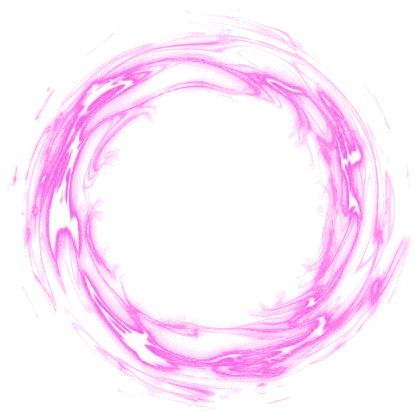
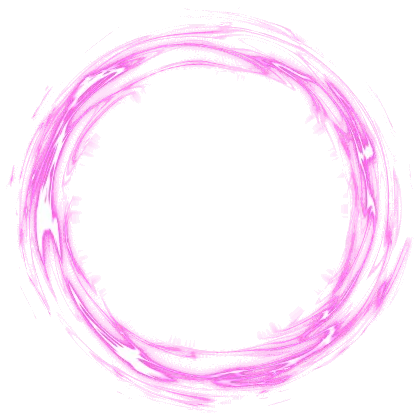
Add files via upload

Changed region(s): [[0.0, 0.031, 0.9905, 0.9905]]

diff --git a/magna-html/cos.css b/magna-html/cos.css
@@ -395,49 +395,64 @@ body:not(.adm-body) .tav[data-pid]{cursor:pointer}
 .fr-ouroboros>.fxm .gem{display:none}
 
 /* ===================== MARCO MAGENTA (exclusivo del sorteo) — energía contenida que quiere liberarse =====================
-   Ciclo: gira → se comprime y tiembla (carga) → ESTALLA (onda expansiva, chispas, destello) → vuelve. Las ondas invaden sutilmente el avatar.
-   Nv.1 Chispa: un remolino tenue, ondas muy suaves, sin estallidos · Nv.2 Corriente: dos remolinos opuestos, rayos eléctricos, estalla cada 5 s
-   Nv.3 Singularidad: tres remolinos, rayos constantes, estalla cada 3,2 s con más fuerza, núcleo blanco y color que vibra */
-.fr-magenta{animation:none!important;box-shadow:0 0 .3em rgba(255,60,220,.45)}
-.fr-magenta:after{inset:-30%!important;background:url("fx/magenta-1.webp") center/100% 100% no-repeat!important;filter:drop-shadow(0 0 4px rgba(255,60,220,.7))!important;animation:frSpin 16s linear infinite!important;z-index:3!important}
-.fr-magenta:before{inset:-30%!important;background:url("fx/magenta-2.webp") center/100% 100% no-repeat!important;filter:none;opacity:0!important;mix-blend-mode:screen;animation:frSpin 22s linear infinite reverse!important;z-index:2!important;-webkit-mask:none!important;mask:none!important}
-.fr-magenta>.fxm{inset:-30%!important;z-index:4!important;--m1:#ff4fd8;--m2:#b24bff;--m3:#fff}
+   Todo dentro de la caja del marco (1,4× el avatar). Una OLA de energía se persigue alrededor del aro y acelera mientras carga;
+   al llenarse ESTALLA (destello, onda y chispas contenidas) y vuelve a empezar. Las ondas invaden sutilmente el avatar.
+   Nv.1 Chispa: un remolino tenue y una ola lenta · Nv.2 Corriente: dos remolinos, dos olas que se persiguen, rayos, estalla cada 5 s
+   Nv.3 Singularidad: tres remolinos, tres olas, rayos constantes, estalla cada 3,2 s con máxima intensidad */
+.fr-magenta{animation:none!important;box-shadow:0 0 .25em rgba(255,60,220,.45)}
+.fr-magenta:after{inset:-20%!important;background:url("fx/magenta-1.webp") center/100% 100% no-repeat!important;filter:drop-shadow(0 0 3px rgba(255,60,220,.7))!important;animation:frSpin 16s linear infinite!important;z-index:3!important}
+.fr-magenta:before{inset:-20%!important;background:url("fx/magenta-2.webp") center/100% 100% no-repeat!important;filter:none;opacity:0!important;mix-blend-mode:screen;animation:frSpin 22s linear infinite reverse!important;z-index:2!important;-webkit-mask:none!important;mask:none!important}
+.fr-magenta>.fxm{inset:-20%!important;z-index:4!important;--m1:#ff4fd8;--m2:#b24bff;--m3:#fff}
 .fr-magenta>.fxm>i{display:none}
 /* ondas que invaden el avatar (la cara del centro queda despejada) */
-.fr-magenta>.fxm .o1{display:block!important;inset:0;border-radius:50%;background:url("fx/magenta-in.webp") center/100% 100% no-repeat;-webkit-mask:radial-gradient(closest-side,transparent 30%,#000 50%,#000 60%,transparent 66%);mask:radial-gradient(closest-side,transparent 30%,#000 50%,#000 60%,transparent 66%);mix-blend-mode:screen;opacity:.22;animation:frSpin 30s linear infinite reverse;z-index:0}
+.fr-magenta>.fxm .o1{display:block!important;inset:0;border-radius:50%;background:url("fx/magenta-in.webp") center/100% 100% no-repeat;-webkit-mask:radial-gradient(closest-side,transparent 36%,#000 56%,#000 68%,transparent 73%);mask:radial-gradient(closest-side,transparent 36%,#000 56%,#000 68%,transparent 73%);mix-blend-mode:screen;opacity:.24;animation:frSpin 30s linear infinite reverse;z-index:0}
 .fr-magenta>.fxm .o1:before,.fr-magenta>.fxm .o1:after{display:none}
-/* Nv.1 */
-.fr-magenta[data-lv="1"]:after{filter:saturate(.55) brightness(.72)!important;opacity:.8;animation-duration:28s!important}
+/* la OLA que se persigue: cabeza blanca brillante y cola magenta, recorriendo el aro */
+.fr-magenta>.fxm .o3{display:block!important;inset:0;border-radius:50%;background:conic-gradient(from 0deg,transparent 0 62%,rgba(178,75,255,.25) 72%,rgba(255,79,216,.85) 92%,#fff 96.7%,rgba(255,214,247,.55) 97.7%,transparent 99.3%);-webkit-mask:radial-gradient(closest-side,transparent 70%,#000 78%,#000 88%,transparent 96%);mask:radial-gradient(closest-side,transparent 70%,#000 78%,#000 88%,transparent 96%);mix-blend-mode:screen;filter:blur(.6px) drop-shadow(0 0 4px #ff4fd8);animation:frSpin 3.6s linear infinite;z-index:5}
+.fr-magenta>.fxm .o3:before,.fr-magenta>.fxm .o3:after{display:none}
+.fr-magenta[data-lv="1"]>.fxm .o3{opacity:.55}
+.fr-magenta[data-lv="1"]:after{filter:saturate(.55) brightness(.72)!important;opacity:.85;animation-duration:28s!important}
 .fr-magenta[data-lv="1"]{box-shadow:0 0 .15em rgba(255,60,220,.3)}
-/* Nv.2 y Nv.3: segundo remolino, rayos, carga y estallido */
+/* Nv.2 */
 .fr-magenta:not([data-lv="1"]):before{opacity:.9!important}
-.fr-magenta:not([data-lv="1"]):after{filter:brightness(1.12) drop-shadow(0 0 5px rgba(255,60,220,.85))!important;animation:frSpin 14s linear infinite,fxSurge 5s ease-in-out infinite!important}
+.fr-magenta:not([data-lv="1"]):after{filter:brightness(1.12) drop-shadow(0 0 4px rgba(255,60,220,.85))!important;animation:frSpin 14s linear infinite,fxSurge 5s ease-in-out infinite!important}
 .fr-magenta:not([data-lv="1"]):before{animation:frSpin 20s linear infinite reverse,fxSurge 5s ease-in-out infinite!important}
 .fr-magenta:not([data-lv="1"]){animation:fxMgB 5s ease-in-out infinite!important}
-.fr-magenta:not([data-lv="1"])>.fxm .o1{opacity:.32;animation:frSpin 26s linear infinite reverse,fxInv 5s ease-in-out infinite}
-.fr-magenta:not([data-lv="1"])>.fxm .o2{display:block;inset:0;border-radius:0;animation:fxArc 5s steps(1) infinite;background:url("fx/magenta-rayos.svg") center/100% 100% no-repeat;filter:drop-shadow(0 0 2px #ff4fd8);z-index:5}
+.fr-magenta:not([data-lv="1"])>.fxm .o3{background:conic-gradient(from 0deg,transparent 0 12%,rgba(255,79,216,.85) 42%,#fff 46.7%,rgba(255,214,247,.55) 47.7%,transparent 49.3% 62%,rgba(255,79,216,.85) 92%,#fff 96.7%,rgba(255,214,247,.55) 97.7%,transparent 99.3%);animation:fxChase 5s cubic-bezier(.55,0,.25,1) infinite}
+.fr-magenta:not([data-lv="1"])>.fxm .o1{opacity:.34;animation:frSpin 26s linear infinite reverse,fxInv 5s ease-in-out infinite}
+.fr-magenta:not([data-lv="1"])>.fxm .o2{display:block;inset:0;border-radius:0;animation:fxArc 5s steps(1) infinite;background:url("fx/magenta-rayos.svg") center/100% 100% no-repeat;filter:drop-shadow(0 0 2px #ff4fd8);z-index:6}
 .fr-magenta>.fxm .o2:before,.fr-magenta>.fxm .o2:after{display:none}
-.fr-magenta:not([data-lv="1"])>.fxm .b2{display:block;inset:16%;border-radius:50%;border:3px solid #ffd6f7;box-shadow:0 0 12px #ff4fd8,inset 0 0 12px #ff4fd8;background:none;-webkit-mask:none;mask:none;opacity:0;animation:fxShock 5s ease-out infinite;z-index:6}
-.fr-magenta:not([data-lv="1"])>.fxm .bu{display:block;inset:4%;border:0;border-radius:50%;opacity:0;background:repeating-conic-gradient(from 7deg,#fff 0 1.2deg,transparent 1.2deg 14deg),repeating-conic-gradient(#ff4fd8 0 2deg,transparent 2deg 19deg);-webkit-mask:radial-gradient(closest-side,transparent 78%,#000 82%,#000 88%,transparent 92%);mask:radial-gradient(closest-side,transparent 78%,#000 82%,#000 88%,transparent 92%);animation:fxSpark 5s ease-out infinite;z-index:6}
-.fr-magenta:not([data-lv="1"])>.fxm .sx{display:block;inset:6%;border-radius:50%;background:radial-gradient(closest-side,transparent 48%,rgba(255,214,247,.95) 62%,rgba(255,79,216,.6) 74%,transparent 90%);mix-blend-mode:screen;opacity:0;animation:fxFlash 5s ease-out infinite;z-index:7}
-/* Nv.3: más rápido y más fuerte */
-.fr-magenta[data-lv="3"]:after{filter:brightness(1.35) saturate(1.2) drop-shadow(0 0 2px #fff) drop-shadow(0 0 8px rgba(255,60,220,.95))!important;animation:frSpin 9s linear infinite,fxSurge3 3.2s ease-in-out infinite!important}
+.fr-magenta:not([data-lv="1"])>.fxm .b2{display:block;inset:13%;border-radius:50%;border:3px solid #fff;box-shadow:0 0 10px #ff4fd8,inset 0 0 10px #ff4fd8;background:none;-webkit-mask:none;mask:none;opacity:0;animation:fxShock 5s ease-out infinite;z-index:7}
+.fr-magenta:not([data-lv="1"])>.fxm .bu{display:block;inset:1%;border:0;border-radius:50%;opacity:0;background:repeating-conic-gradient(from 7deg,#fff 0 1.4deg,transparent 1.4deg 12deg),repeating-conic-gradient(#ff4fd8 0 2.4deg,transparent 2.4deg 17deg);-webkit-mask:radial-gradient(closest-side,transparent 74%,#000 80%,#000 90%,transparent 96%);mask:radial-gradient(closest-side,transparent 74%,#000 80%,#000 90%,transparent 96%);animation:fxSpark 5s ease-out infinite;z-index:7}
+.fr-magenta:not([data-lv="1"])>.fxm .sx{display:block;inset:0;border-radius:50%;background:radial-gradient(closest-side,rgba(255,255,255,.55) 0,rgba(255,214,247,.9) 70%,rgba(255,79,216,.8) 84%,transparent 100%);mix-blend-mode:screen;opacity:0;animation:fxFlash 5s ease-out infinite;z-index:8}
+/* Nv.3: tres olas, más rápido y más violento */
+.fr-magenta[data-lv="3"]:after{filter:brightness(1.35) saturate(1.2) drop-shadow(0 0 2px #fff) drop-shadow(0 0 6px rgba(255,60,220,.95))!important;animation:frSpin 9s linear infinite,fxSurge3 3.2s ease-in-out infinite!important}
 .fr-magenta[data-lv="3"]:before{animation:frSpin 13s linear infinite reverse,fxSurge3 3.2s ease-in-out infinite!important}
 .fr-magenta[data-lv="3"]{animation:fxMgB3 3.2s ease-in-out infinite!important}
-.fr-magenta[data-lv="3"]>.fxm .o1{opacity:.42;animation:frSpin 18s linear infinite reverse,fxInv 3.2s ease-in-out infinite}
+.fr-magenta[data-lv="3"]>.fxm .o3{background:conic-gradient(from 0deg,transparent 0 8%,rgba(255,79,216,.9) 28%,#fff 31.5%,rgba(255,214,247,.55) 32.5%,transparent 34.1% 41%,rgba(255,79,216,.9) 61%,#fff 64.8%,rgba(255,214,247,.55) 65.8%,transparent 67.4% 74%,rgba(255,79,216,.9) 94%,#fff 98.0%,rgba(255,214,247,.55) 99.0%,transparent 100.6%);animation:fxChase3 3.2s cubic-bezier(.55,0,.25,1) infinite}
+.fr-magenta[data-lv="3"]>.fxm .o1{opacity:.44;animation:frSpin 18s linear infinite reverse,fxInv 3.2s ease-in-out infinite}
 .fr-magenta[data-lv="3"]>.fxm .o2{animation:none;opacity:1}
 .fr-magenta[data-lv="3"]>.fxm .b2,.fr-magenta[data-lv="3"]>.fxm .bu,.fr-magenta[data-lv="3"]>.fxm .sx{animation-duration:3.2s}
-.fr-magenta[data-lv="3"]>.fxm .au{display:block;inset:0!important;opacity:.95;background:url("fx/magenta-3.webp") center/100% 100% no-repeat!important;mix-blend-mode:screen;animation:frSpin 7s linear infinite,fxMgH 3.2s ease-in-out infinite!important;z-index:1}
-.fr-magenta[data-lv="3"]>.fxm .o3{display:block}
-@keyframes fxSurge{0%,50%{scale:1;translate:0 0}62%{scale:.95}66%{translate:.7% -.5%}68%{translate:-.7% .5%}70%{translate:.6% .6%}72%{translate:-.6% -.5%}74%{translate:.5% -.6%}76%{translate:0 0;scale:.93}80%{scale:1.12}88%{scale:1.02}100%{scale:1;translate:0 0}}
-@keyframes fxSurge3{0%,40%{scale:1;translate:0 0}55%{scale:.94}60%{translate:1% -.7%}62%{translate:-1% .8%}64%{translate:.9% .9%}66%{translate:-.9% -.7%}68%{translate:.8% -.9%}72%{translate:0 0;scale:.91}77%{scale:1.16}86%{scale:1.03}100%{scale:1;translate:0 0}}
-@keyframes fxShock{0%,77%{opacity:0;transform:scale(.85)}80%{opacity:1;transform:scale(.95)}100%{opacity:0;transform:scale(1.32)}}
-@keyframes fxSpark{0%,78%{opacity:0;transform:scale(.8) rotate(0)}81%{opacity:1}100%{opacity:0;transform:scale(1.28) rotate(25deg)}}
-@keyframes fxFlash{0%,77%{opacity:0}80%{opacity:1}92%,100%{opacity:0}}
-@keyframes fxInv{0%,50%{filter:none}74%{filter:brightness(1.8) saturate(1.3)}80%{filter:brightness(.7)}100%{filter:none}}
-@keyframes fxArc{0%,55%{opacity:.35}56%,79%{opacity:1}80%,100%{opacity:.35}}
-@keyframes fxMgB{0%,55%{box-shadow:0 0 .3em rgba(255,60,220,.5)}76%{box-shadow:0 0 .5em rgba(255,214,247,.8),0 0 1em rgba(255,60,220,.9)}80%{box-shadow:0 0 .9em #fff,0 0 2em rgba(255,60,220,1)}100%{box-shadow:0 0 .3em rgba(255,60,220,.5)}}
-@keyframes fxMgB3{0%,45%{box-shadow:0 0 .4em rgba(255,255,255,.6),0 0 .9em rgba(255,60,220,.8)}72%{box-shadow:0 0 .6em #fff,0 0 1.4em rgba(255,60,220,1)}77%{box-shadow:0 0 1.1em #fff,0 0 2.6em rgba(255,60,220,1),0 0 3.4em rgba(178,75,255,.7)}100%{box-shadow:0 0 .4em rgba(255,255,255,.6),0 0 .9em rgba(255,60,220,.8)}}
+.fr-magenta[data-lv="3"]>.fxm .au{display:block;inset:0!important;opacity:.9;background:url("fx/magenta-3.webp") center/100% 100% no-repeat!important;mix-blend-mode:screen;animation:frSpin 7s linear infinite,fxMgH 3.2s ease-in-out infinite!important;z-index:1}
+/* la ola acelera mientras carga y da el último giro en el estallido */
+@keyframes fxChase{0%{transform:rotate(0)}50%{transform:rotate(380deg)}78%{transform:rotate(1150deg)}82%{transform:rotate(1310deg)}100%{transform:rotate(1440deg)}}
+@keyframes fxChase3{0%{transform:rotate(0)}40%{transform:rotate(340deg)}75%{transform:rotate(1240deg)}79%{transform:rotate(1400deg)}100%{transform:rotate(1800deg)}}
+/* impulso: se comprime, tiembla fuerte y revienta (sin salirse de la caja) */
+@keyframes fxSurge{0%,50%{scale:1;translate:0 0}60%{scale:.95}63%{translate:1.2% -1%}65%{translate:-1.3% .9%}67%{translate:1.1% 1.2%}69%{translate:-1.2% -1%}71%{translate:1.3% -.8%}73%{translate:-1% 1.2%}75%{translate:.9% -1.1%}77%{translate:0 0;scale:.9}80%{scale:1.06}86%{scale:.99}100%{scale:1;translate:0 0}}
+@keyframes fxSurge3{0%,40%{scale:1;translate:0 0}52%{scale:.94}56%{translate:1.6% -1.2%}58%{translate:-1.7% 1.3%}60%{translate:1.5% 1.6%}62%{translate:-1.6% -1.4%}64%{translate:1.7% -1.1%}66%{translate:-1.4% 1.6%}68%{translate:1.3% -1.5%}70%{translate:-1.5% 1%}73%{translate:0 0;scale:.88}77%{scale:1.08}84%{scale:.98}100%{scale:1;translate:0 0}}
+@keyframes fxShock{0%,77%{opacity:0;transform:scale(.9)}79%{opacity:1;transform:scale(.95)}100%{opacity:0;transform:scale(1.18)}}
+@keyframes fxSpark{0%,77%{opacity:0;transform:scale(.88) rotate(0)}80%{opacity:1}100%{opacity:0;transform:scale(1.05) rotate(30deg)}}
+@keyframes fxFlash{0%,76%{opacity:0}79%{opacity:.95}84%{opacity:.25}88%{opacity:.6}96%,100%{opacity:0}}
+@keyframes fxInv{0%,50%{filter:none}75%{filter:brightness(2) saturate(1.4)}80%{filter:brightness(.6)}100%{filter:none}}
+@keyframes fxArc{0%,52%{opacity:.35}53%,79%{opacity:1}80%,100%{opacity:.35}}
+@keyframes fxMgB{0%,55%{box-shadow:0 0 .25em rgba(255,60,220,.5)}76%{box-shadow:0 0 .4em rgba(255,214,247,.9),0 0 .8em rgba(255,60,220,.9)}80%{box-shadow:0 0 .6em #fff,0 0 1.2em rgba(255,60,220,1)}100%{box-shadow:0 0 .25em rgba(255,60,220,.5)}}
+@keyframes fxMgB3{0%,45%{box-shadow:0 0 .3em rgba(255,255,255,.6),0 0 .7em rgba(255,60,220,.8)}72%{box-shadow:0 0 .5em #fff,0 0 1em rgba(255,60,220,1)}77%{box-shadow:0 0 .8em #fff,0 0 1.5em rgba(255,60,220,1),0 0 2em rgba(178,75,255,.7)}100%{box-shadow:0 0 .3em rgba(255,255,255,.6),0 0 .7em rgba(255,60,220,.8)}}
 @keyframes fxMgH{0%,100%{filter:hue-rotate(0)}50%{filter:hue-rotate(-45deg) brightness(1.2)}}
-.fr-magenta>.fxm .gem{display:none!important}
+.fr-magenta:not([data-lv="3"])>.fxm .gem{display:none!important}
+/* Nv.3 · HORIZONTE DE SUCESOS: la singularidad se traga el avatar (gira en espiral hacia el vacío) y renace en el estallido */
+.fr-magenta[data-lv="3"]>.fxm{background-image:inherit;background-size:0 0;background-repeat:no-repeat}
+.fr-magenta[data-lv="3"]>.fxm .gem{display:block!important;inset:14.3%!important;width:auto!important;height:auto!important;margin:0!important;border-radius:50%!important;clip-path:none!important;filter:none;background-color:#0b0012!important;background-image:inherit!important;background-size:100% 100%;background-position:center!important;background-repeat:no-repeat!important;box-shadow:inset 0 0 10px rgba(255,79,216,.9),inset 0 0 22px rgba(11,0,18,.95);opacity:0;animation:fxSing 3.2s cubic-bezier(.5,0,.3,1) infinite!important;z-index:3}
+.fr-magenta[data-lv="3"]>.fxm .gem:after{display:block!important;content:"";position:absolute;inset:0;border-radius:50%;transform:none!important;background:radial-gradient(closest-side,#000 0 18%,rgba(255,79,216,.95) 24%,rgba(178,75,255,.5) 34%,transparent 48%);opacity:0;animation:fxHole 3.2s ease-in infinite}
+@keyframes fxSing{0%,46%{opacity:0;transform:rotate(0);background-size:100% 100%;filter:none}50%{opacity:1;transform:rotate(0);background-size:100% 100%}73%{opacity:1;transform:rotate(600deg);background-size:10% 10%;filter:blur(.6px) brightness(1.7) hue-rotate(-40deg)}76%{opacity:1;transform:rotate(700deg);background-size:0% 0%}77%{opacity:1;transform:rotate(720deg);background-size:135% 135%;filter:brightness(2.4)}86%{opacity:1;background-size:100% 100%;filter:none}92%,100%{opacity:0;transform:rotate(720deg);background-size:100% 100%}}
+@keyframes fxHole{0%,50%{opacity:0;transform:scale(.2)}74%{opacity:1;transform:scale(1)}76%{opacity:1;transform:scale(.3)}78%,100%{opacity:0;transform:scale(1.6)}}
 @media(prefers-reduced-motion:reduce){.fr-magenta,.fr-magenta:after,.fr-magenta:before,.fr-magenta>.fxm *{animation:none!important}.fr-magenta>.fxm .b2,.fr-magenta>.fxm .bu,.fr-magenta>.fxm .sx{display:none!important}}
